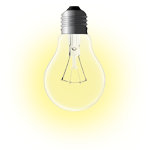
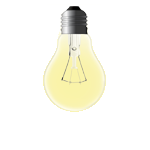
improved lighting style

Changed region(s): [[0.1333, 0.1867, 0.8533, 0.9067]]

diff --git a/src/components/windows/Bulb.js b/src/components/windows/Bulb.js
@@ -3,6 +3,7 @@ import {
   Button,
   Cutout,
   Fieldset,
+  Hourglass,
 } from 'react95';
 
 import './Bulb.css';
@@ -27,9 +28,9 @@ class BulbBody extends Component {
     super(props);
 
     this.websocket = undefined;
-    this.websocketOpen = false;
 
     this.state = {
+      websocketOpen: false,
       lightOn: false,
     };
   }
@@ -45,23 +46,20 @@ class BulbBody extends Component {
   }
 
   onOpen = () => {
-    this.websocketOpen = true;
-    console.log('opened websocket');
+    console.info('opened websocket');
+    this.setState({ websocketOpen: true });
   }
 
   onClose = () => {
-    console.log('closed websocket');
+    console.info('closed websocket');
   }
 
   onError = (evt) => {
-    console.log('websocket error');
-    console.log(evt.data);
+    console.info('websocket error');
+    console.info(evt.data);
   }
 
   onMessage = (evt) => {
-    console.log('received message');
-    console.log(evt.data);
-
     if (evt.data === '1') {
       this.setState({ lightOn: true });
     } else {
@@ -69,23 +67,46 @@ class BulbBody extends Component {
     }
   }
 
-  doSend = (message) => {
-    console.log('sending message');
-    console.log(message);
+  doSend = () => {
+    const { websocketOpen } = this.state;
 
-    if (this.websocket !== undefined && this.websocketOpen) {
-      this.websocket.send(message);
+    if (websocketOpen) {
+      this.websocket.send('');
     }
   }
 
-  render() {
+  componentWillUnmount = () => {
+    const { websocketOpen } = this.state;
+
+    if (websocketOpen) {
+      this.websocket.close();
+    }
+  }
+
+  renderLightBulbObject = () => {
     const { lightOn } = this.state;
+
+    return (
+      <div className='animated swing'>
+        <div className='lightbulb-container'>
+          <div style={ { display: lightOn ? 'block' : 'none' } } className='lightbulb-shadow'></div>
+          <img src={ lightOn ? lightbulbOn : lightbulbOff } className='lightbulb' style={ { height: '90px' } } alt="lightbulb"/>
+        </div>
+      </div>
+    );
+  }
+
+  render() {
+    const { lightOn, websocketOpen } = this.state;
 
     return (
       <React.Fragment>
         <div>
-          <Fieldset style={ { height: '80px' } }>
-            <img src={ lightOn ? lightbulbOn : lightbulbOff } className='icon' style={ { height: '90px' } } alt="lightbulb"/>
+          <Fieldset style={ { height: '80px', width: '90px', textAlign: 'center' } }>
+            { websocketOpen
+              ? this.renderLightBulbObject()
+              : <Hourglass size={ 48 } style={ { paddingTop: '15px' } } />
+            }
           </Fieldset>
           <br />
           <Cutout className='bulb-cut-out'>
@@ -95,7 +116,7 @@ class BulbBody extends Component {
                 active={ lightOn }
                 fullWidth
                 disabled={ lightOn }
-              >I</Button>
+              ><b>I</b></Button>
             </div>
             <div className='bulb-buttons'>
               <Button square
@@ -103,7 +124,7 @@ class BulbBody extends Component {
                 active={ !lightOn }
                 fullWidth
                 disabled={ !lightOn }
-              >O</Button>
+              ><b>O</b></Button>
             </div>
           </Cutout>
         </div>

diff --git a/src/components/windows/Bulb.css b/src/components/windows/Bulb.css
@@ -1,3 +1,24 @@
+.lightbulb-shadow {
+  position: absolute;
+  width: 37px;
+  height: 37px;
+  left: 26px;
+  top: 29px;
+  border-radius:50%;
+  -webkit-box-shadow: 0px 0px 100px 50px rgba(255,220,0,1);
+  -moz-box-shadow: 0px 0px 100px 50px rgba(255,220,0,1);
+  box-shadow: 0px 0px 100px 50px rgba(255,220,0,1);
+}
+
+.lightbulb {
+  pointer-events: none;
+  position: absolute;
+}
+
+.lightbulb-container {
+  position: absolute;
+}
+
 .bulb-buttons {
   width: 50%;
 }
